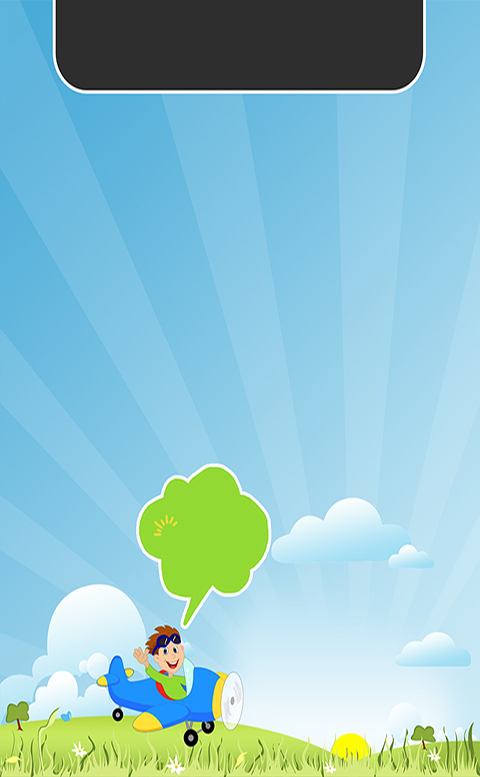
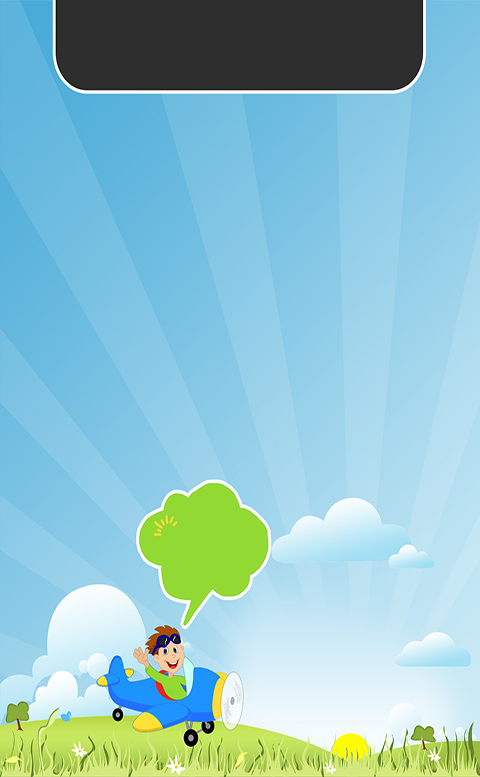
2- css update5.2 10

Changed region(s): [[0.2812, 0.5869, 0.5625, 0.8031]]

diff --git a/www/css/style.css b/www/css/style.css
@@ -314,13 +314,13 @@ header{
     display:none;
     position: absolute;
     top: 10%;
-    left: 9%;
+    left: 8%;
 }
 
 #launch {
     position: absolute;
     top: 15%;
-    left: 28%;
+    left: 27%;
 }
 
 .pic_upload{
@@ -342,8 +342,8 @@ header{
     width: auto;
     height: 215px;
     position: absolute;
-    top: 2%;
-    left: 20%;
+    top: 3%;
+    left: 25%;
 }
 
 #home-div{
@@ -420,7 +420,7 @@ header{
     height: 350px;
     margin: 20px auto 0 auto;
     top: 40%;
-    left: 15%;
+    left: 13%;
     background: url(../images/clock.png);
     list-style: none;
     }

diff --git a/www/js/attendance.js b/www/js/attendance.js
@@ -727,7 +727,7 @@ var table = '<table style="border:1px solid #000;text-align: center;border-colla
         
         //Upload Current Record to Parse
         var uploadParsePic = function(url){
-            console.log("Commit: Css update 5.1.")
+            console.log("Commit: Css update 5.2.")
             var currentDate = new Date();
             var currentTime = (currentDate.toDateString()+', '+ currentDate.getHours() + ':' + currentDate.getMinutes()).toString();
             

diff --git a/www/home.html b/www/home.html
@@ -81,7 +81,7 @@
                 }
             picurl = window.localStorage.getItem("offlinepic");
             console.log("CheckIn: " + checkin);
-            $('#my_image').css({'left':'4%'});
+            $('#my_image').css({'left':'25%'});
             $('#my_image').attr('src',picurl);
             
             var currentDate = new Date();
